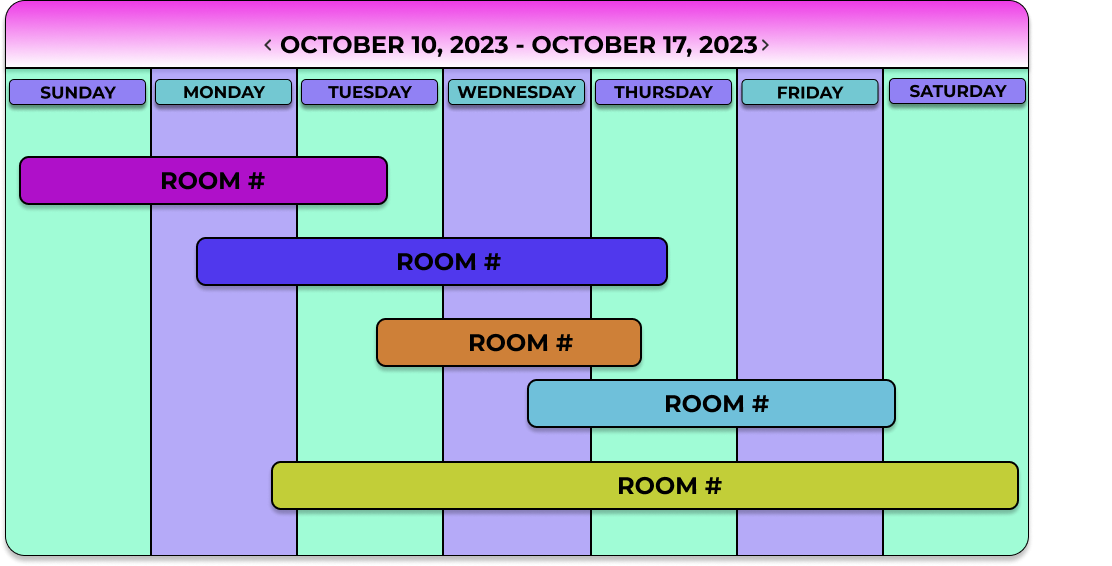
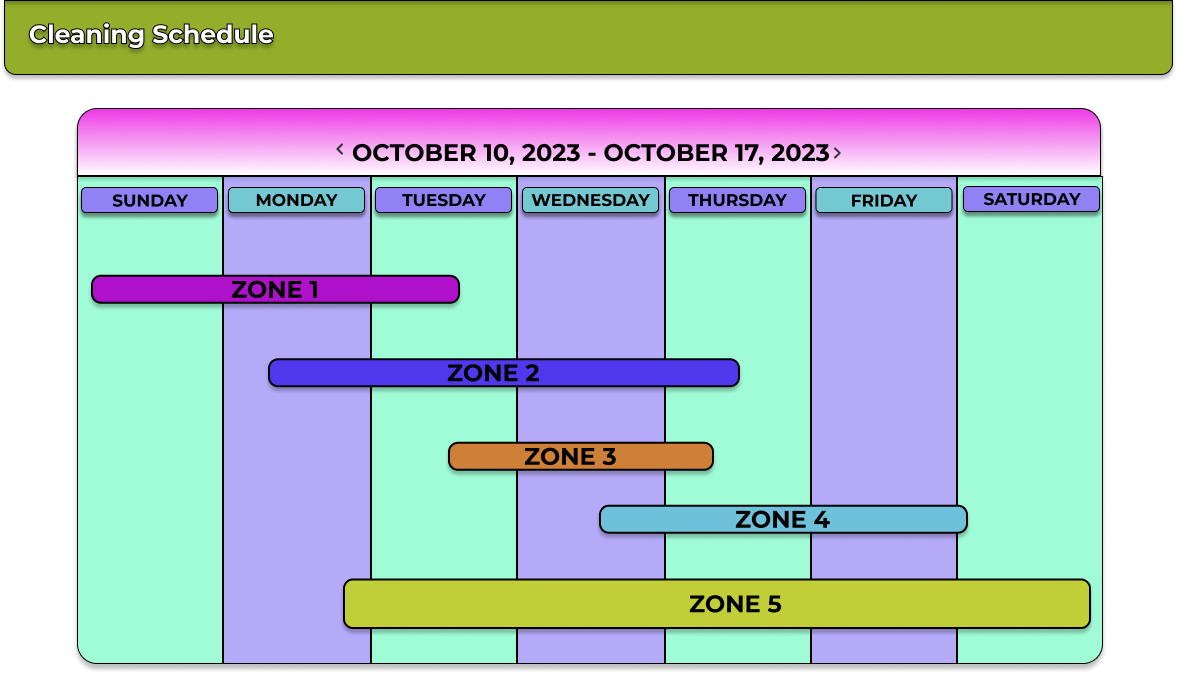
Finished Contact Me. Working on overview.

diff --git a/src/pages/home/Home.css b/src/pages/home/Home.css
@@ -44,78 +44,7 @@ body {
   animation: pulsar ease-in-out 3s;
 
 }
-.nav-container {
-  display: flex;
-  width: 25rem;
-  justify-content: space-evenly;
-}
 
-.roomzio-nav {
-  padding: 0.6rem 1rem;
-  background-color: rgba(251, 0, 255, 0.225);
-  color: whitesmoke;
-  text-shadow: 0.1rem 0.2rem 0.4rem black;
-  border-radius: 0.5rem;
-  box-shadow: 0.2rem 0.3rem 0.4rem black;
-  text-decoration: none;
-}
-
-.features-nav {
-  padding: 0.6rem 1rem;
-  background-color: rgba(251, 0, 255, 0.225);
-  color: whitesmoke;
-  text-shadow: 0.1rem 0.2rem 0.4rem black;
-  border-radius: 0.5rem;
-  box-shadow: 0.2rem 0.3rem 0.4rem black;
-}
-
-.contact-me-nav {
-  padding: 0.6rem 1rem;
-  color: whitesmoke;
-  text-shadow: 0.1rem 0.2rem 0.4rem black;
-  background-color: rgba(251, 0, 255, 0.225);
-  border-radius: 0.5rem;
-  box-shadow: 0.2rem 0.3rem 0.4rem black;
-}
-
-@keyframes tilt-shaking {
-  0% {
-    transform: rotate(0deg);
-    background-color: rgba(251, 0, 255, 0.225);
-    text-shadow: 0.1rem 0.2rem 0.4rem black;
-  }
-  25% {
-    transform: rotate(5deg);
-  }
-  50% {
-    transform: rotate(0deg);
-  }
-  75% {
-    transform: rotate(-5deg);
-  }
-  100% {
-    transform: rotate(0deg);
-    background-color: rgba(115, 0, 255, 0.225);
-    text-shadow: 0.1rem 0.1rem 0.2rem black;
-    color: lightseagreen;
-    font-weight: bolder;
-  }
-}
-
-.roomzio-nav:hover,
-.roomzio-nav:focus {
-  animation: tilt-shaking 0.3s forwards; /* Add 'forwards' to keep the final state */
-}
-
-.features-nav:hover,
-.features-nav:focus {
-  animation: tilt-shaking 0.3s forwards;
-}
-
-.contact-me-nav:hover,
-.contact-me-nav:focus {
-  animation: tilt-shaking 0.3s forwards;
-}
 
 @keyframes pulsar {
   0% {
@@ -134,3 +63,5 @@ body {
     text-shadow: rgb(220, 125, 265) 1px 0 10px;
   }
 }
+
+

diff --git a/src/components/nav/NavContainer.css b/src/components/nav/NavContainer.css
@@ -1,0 +1,64 @@
+.nav-container {
+  display: flex;
+  width: 25rem;
+  justify-content: space-evenly;
+}
+
+.roomzio-nav {
+  padding: 0.6rem 1rem;
+  margin-bottom: 0.8rem;
+  background-color: rgba(251, 0, 255, 0.225);
+  color: whitesmoke;
+  text-shadow: 0.1rem 0.2rem 0.4rem black;
+  border-radius: 0.5rem;
+  box-shadow: 0.2rem 0.3rem 0.4rem black;
+  text-decoration: none;
+}
+
+@keyframes tilt-shaking {
+  0% {
+    transform: rotate(0deg);
+    background-color: rgba(251, 0, 255, 0.225);
+    text-shadow: 0.1rem 0.2rem 0.4rem black;
+  }
+  25% {
+    transform: rotate(5deg);
+  }
+  50% {
+    transform: rotate(0deg);
+  }
+  75% {
+    transform: rotate(-5deg);
+  }
+  100% {
+    transform: rotate(0deg);
+    background-color: rgba(115, 0, 255, 0.225);
+    text-shadow: 0.1rem 0.1rem 0.2rem black;
+    color: lightseagreen;
+    font-weight: bolder;
+  }
+}
+
+.roomzio-nav:hover,
+.top-roomzio-nav:hover,
+.roomzio-nav:focus,
+.top-roomzio-nav:focus {
+  animation: tilt-shaking 0.3s forwards;
+}
+
+.top-nav-container {
+  display: flex;
+}
+
+.top-roomzio-nav {
+  padding: 0.6rem 1rem;
+  margin-inline: .5rem;
+  margin-top: 2rem;
+  background-color: rgba(251, 0, 255, 0.225);
+  color: whitesmoke;
+  text-shadow: 0.1rem 0.2rem 0.4rem black;
+  border-radius: 0.5rem;
+  box-shadow: 0.2rem 0.3rem 0.4rem black;
+  text-decoration: none;
+
+}

diff --git a/src/pages/overview/Overview.js b/src/pages/overview/Overview.js
@@ -1,10 +1,28 @@
-import React from 'react'
-import './Overview.css'
+import React from "react";
+import "./Overview.css";
+import NavContainer from "../../components/nav/NavContainer";
+import DisplayItem from "../../components/display-item/DisplayItem";
+import CleaningBlob from '../../assets/blobs/CleaningBlob.js'
+import CleaningSchedule from '../../assets/images/CleaningSection.png'
 
 const Overview = () => {
   return (
-    <div>Overview</div>
-  )
-}
+    <div className="overview-container">
+      <div className="overview-header-container">
+        <div className="overview-header-contents">
+          <p className="title overview-title">RoomzIO</p>
+          <NavContainer
+            containerClass={"top-nav-container"}
+            linkClass={"top-roomzio-nav"}
+          />
+        </div>
+      </div>
+      <div className="overview-label">
+        <p className="overview-label-text">Welcome to RoomzIO</p>
+      </div>
+      <DisplayItem title={'Schedule Room Cleaning'} blob={<CleaningBlob />} image={CleaningSchedule} />
+    </div>
+  );
+};
 
-export default Overview
+export default Overview;

diff --git a/src/pages/home/Home.js b/src/pages/home/Home.js
@@ -3,7 +3,7 @@ import "./Home.css";
 import Calendar from "../../assets/images/CleaningSchedule.png";
 import Maintenance from "../../assets/images/MaintenanceTicketCard.png";
 import Date from "../../assets/images/Date.png";
-import  { Link } from "react-router-dom";
+import NavContainer from "../../components/nav/NavContainer";
 
 const Home = () => {
   return (
@@ -20,11 +20,10 @@ const Home = () => {
           things.
         </h2>
       </div>
-      <div className="nav-container">
-      <Link to='/overview' className="roomzio-nav">Overview</Link>
-      <Link to='/features' className="roomzio-nav">Features</Link>
-      <Link to='/contact-me' className="roomzio-nav">Lets Talk</Link>
-      </div>
+      <NavContainer
+        containerClass={"nav-container"}
+        linkClass={"roomzio-nav"}
+      />
     </div>
   );
 };

diff --git a/src/components/display-item/DisplayItem.css b/src/components/display-item/DisplayItem.css
@@ -1,0 +1,43 @@
+.display-item-section {
+    margin-top: 5rem;
+    display: flex;
+    justify-content: space-evenly;
+    width: 99.1vw;
+}
+
+.display-item-text-section {
+    margin: 3rem 3rem;
+}
+.display-item-section-title {
+    margin-bottom: 0.5rem;
+    font-size: 3.5rem;
+    text-shadow: rgb(220, 125, 265) 1px 0 10px;
+
+
+}
+
+.display-item-section-blob {
+margin-left: 2rem;
+}
+
+.display-item-section-blob > p {
+    font-size: 20px; 
+    line-height: 1.5;
+    letter-spacing: .08rem; 
+    color: lightgrey;
+    font-weight: bolder;
+    text-shadow: black .1rem .2rem .4rem;
+    text-indent: 20px;
+    margin: 4rem;
+}
+
+
+.display-item-section-img {
+margin-top: 5rem;
+
+}
+
+.display-item-section-img > img {
+  box-shadow: 1rem 1rem 3rem black;
+  height: 50%;
+}

diff --git a/src/assets/blobs/CleaningBlob.js b/src/assets/blobs/CleaningBlob.js
@@ -1,0 +1,16 @@
+import React from "react";
+
+const CleaningBlob = () => {
+  return (
+    <p>
+      RoomzIO's cleaning schedule offers a sleek and intuitive interface,
+      effortlessly organizing your routines. With a user-friendly design, it
+      simplifies task management. The display provides a clear overview of
+      scheduled cleanings for easy navigation. RoomzIO's schedule ensures an
+      efficient and visually pleasing environment. Cheers to fresh and orderly
+      spaces!
+    </p>
+  );
+};
+
+export default CleaningBlob;

diff --git a/src/components/display-item/DisplayItem.js b/src/components/display-item/DisplayItem.js
@@ -1,0 +1,19 @@
+import React from "react";
+import "./DisplayItem.css";
+
+const DisplayItem = ({ title, blob, image }) => {
+  return (
+    <div className="display-item-section">
+      <div className="display-item-text-section">
+        <div className="display-item-section-title">{title}</div>
+        <div className="display-item-section-blob">{blob}</div>
+      </div>
+
+      <div className="display-item-section-img">
+        <img src={image} alt="" />
+      </div>
+    </div>
+  );
+};
+
+export default DisplayItem;

diff --git a/src/components/nav/NavContainer.js b/src/components/nav/NavContainer.js
@@ -1,0 +1,20 @@
+import React from "react";
+import "./NavContainer.css";
+import { Link } from "react-router-dom";
+
+const NavContainer = ({containerClass, linkClass}) => {
+  return (
+    <div className={containerClass}>
+      <Link to="/overview" className={linkClass}>
+        Overview
+      </Link>
+      <Link to="/features" className={linkClass}>
+        Features
+      </Link>
+      <Link to="/contact-me" className={linkClass}>
+        Lets Talk
+      </Link>
+    </div>
+  );
+};
+export default NavContainer;

diff --git a/src/pages/overview/Overview.css b/src/pages/overview/Overview.css
@@ -1,0 +1,14 @@
+.overview-header-container {
+  background-color: rgba(0, 0, 0, 0.5);
+  box-shadow: 0 0.5rem 1rem black;
+}
+.overview-header-contents {
+  display: flex;
+  align-items: center;
+}
+
+.overview-title {
+  scale: 60%;
+  margin: -2rem -6.5rem ;
+}
+
